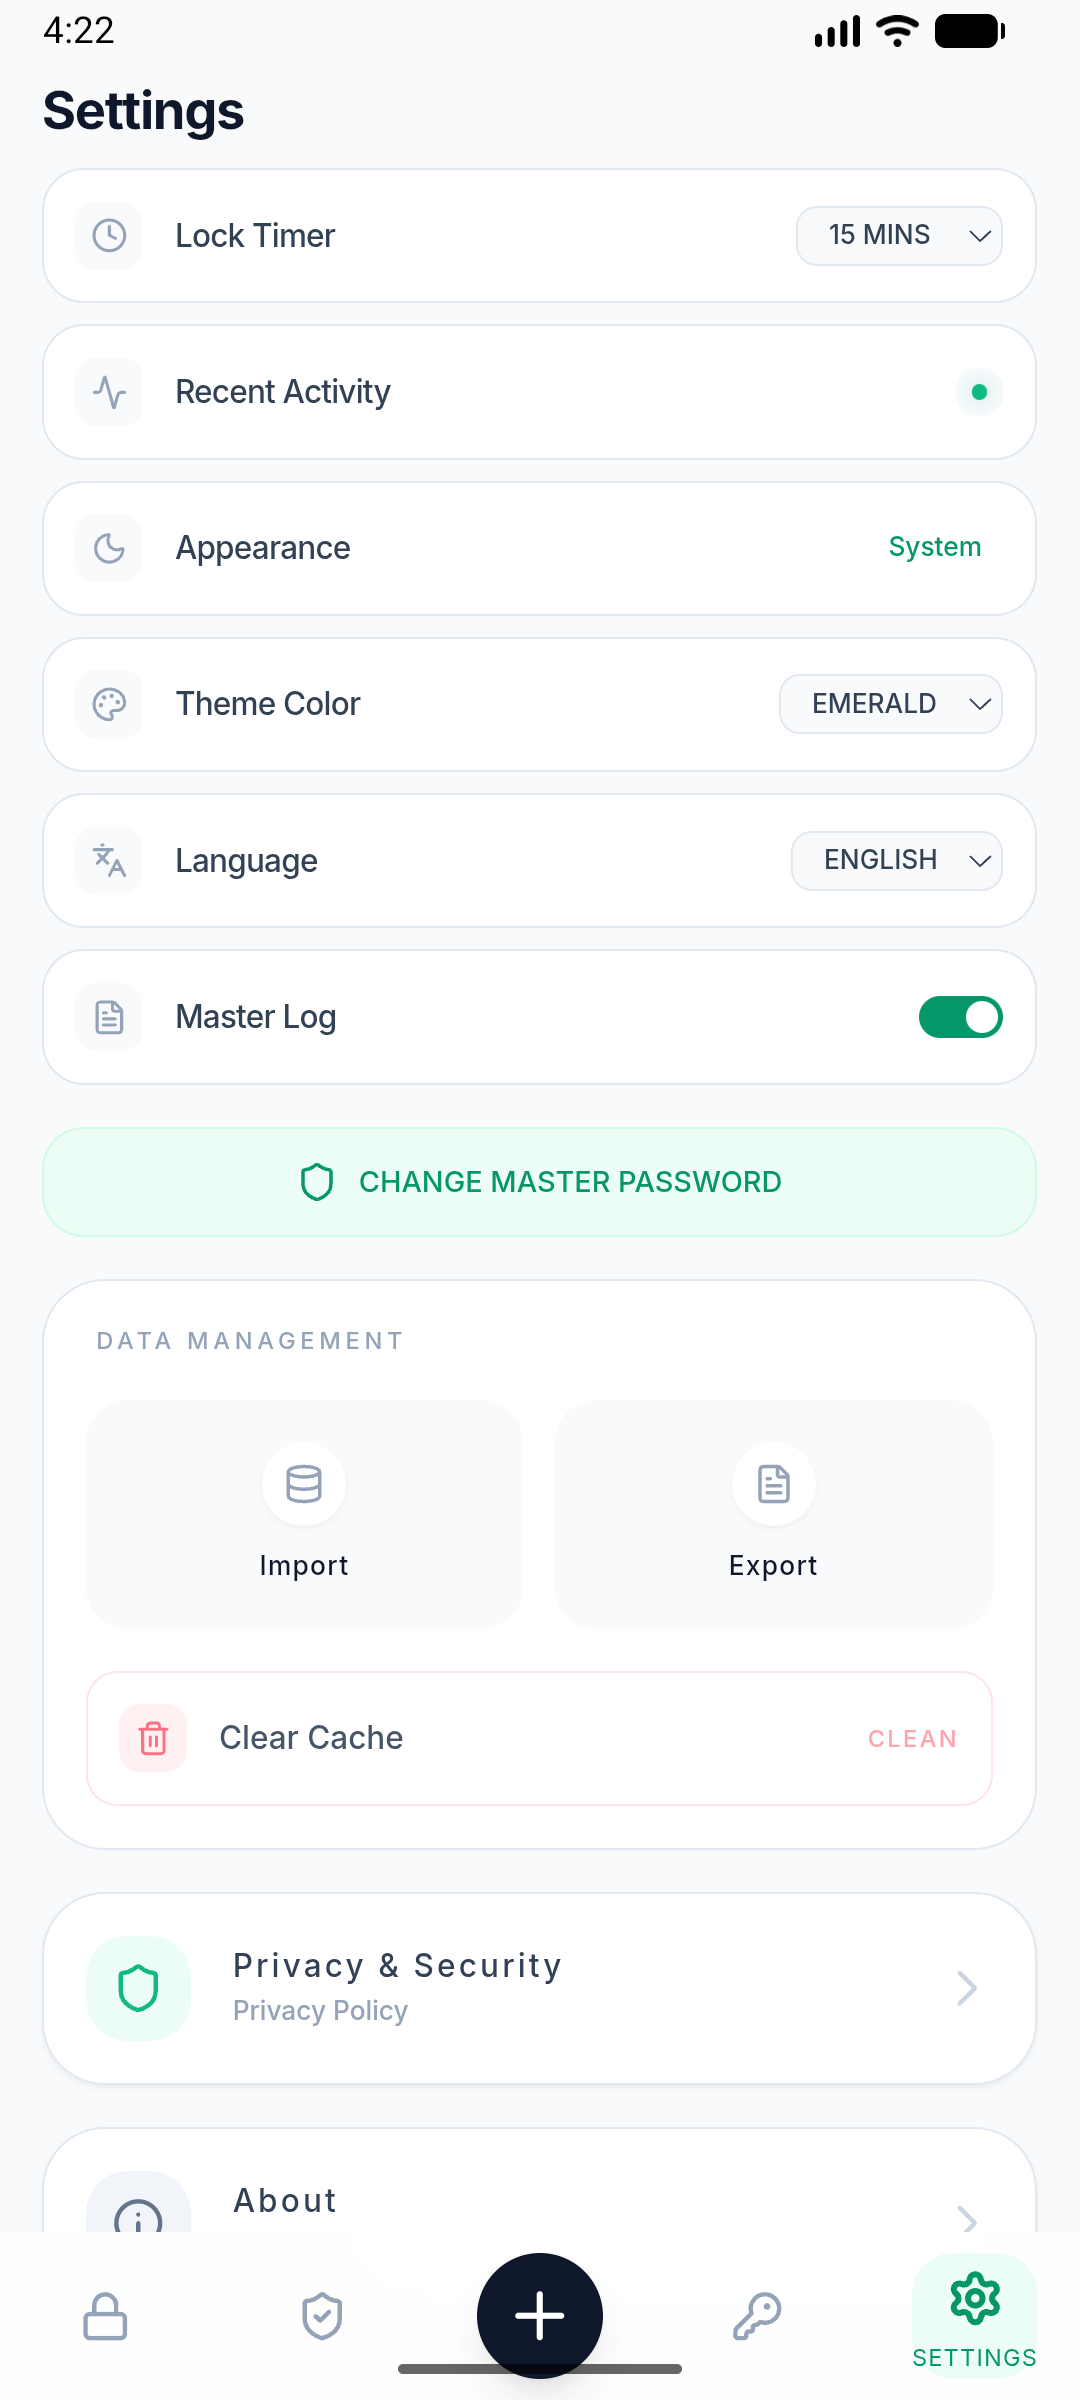
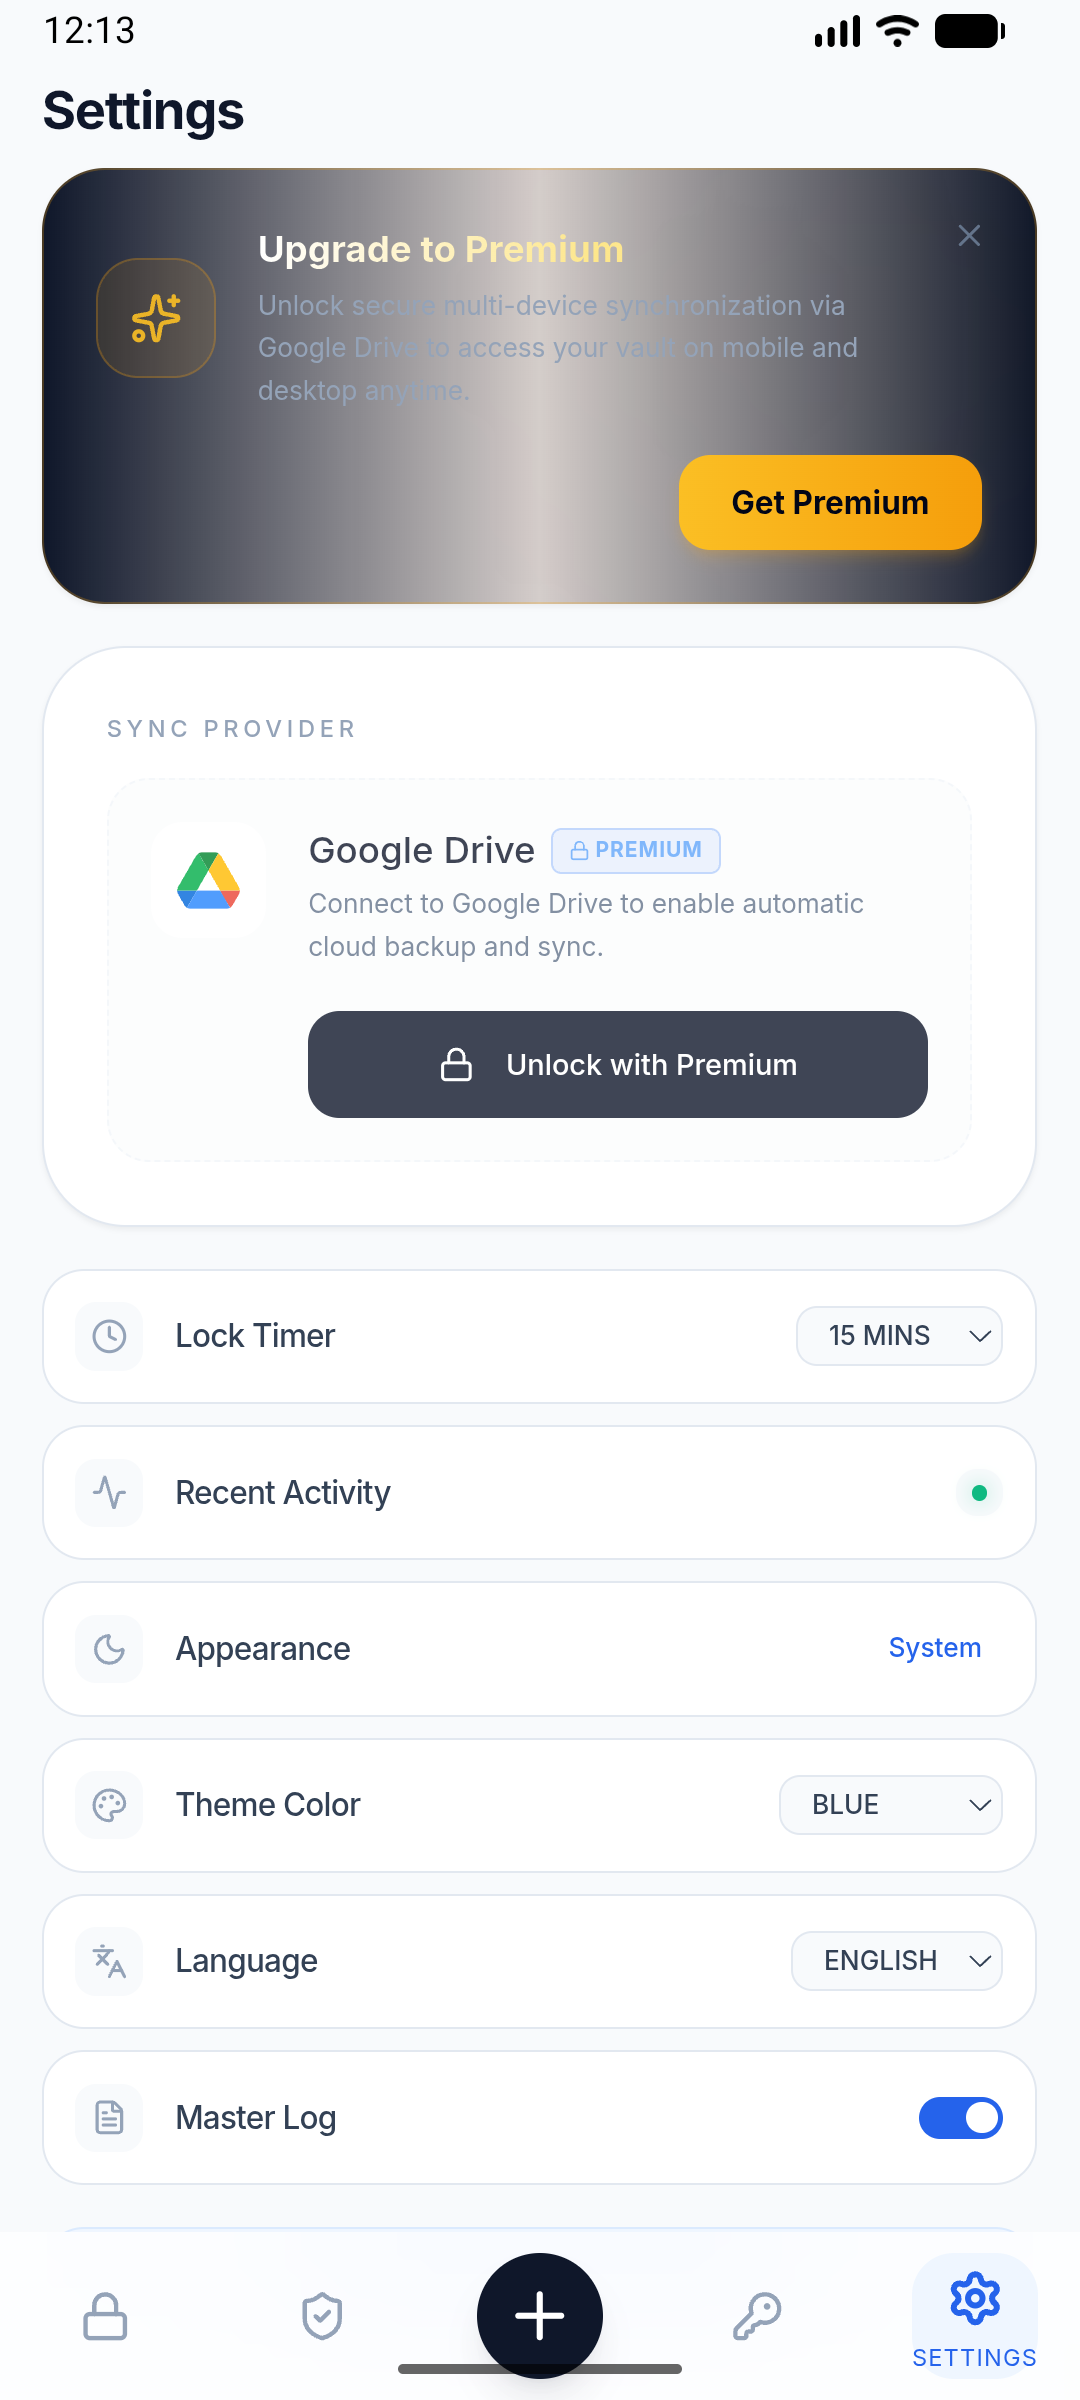
feat: integrate RevenueCat for Android in-app purchases and add Edge-to-Edge display support

diff --git a/packages/app/src/components/PaywallModal.tsx b/packages/app/src/components/PaywallModal.tsx
@@ -5,6 +5,8 @@ import { Portal } from './Portal';
 import { useTranslation } from 'react-i18next';
 import { logger } from '../utils/logger';
 import { useAlert } from '../hooks/useAlert';
+import { Capacitor } from '@capacitor/core';
+import { Purchases, PurchasesPackage } from '@revenuecat/purchases-capacitor';
 
 interface PaywallModalProps {
   isOpen: boolean;
@@ -19,15 +21,57 @@ export const PaywallModal: React.FC<PaywallModalProps> = ({ isOpen, onClose, onP
   const { t } = useTranslation();
   const { showSuccess, showError } = useAlert();
 
-  const [selectedPlan, setSelectedPlan] = useState<PlanType>('annual');
+  const [selectedPlan, setSelectedPlan] = useState<PlanType>('lifetime');
   const [paymentState, setPaymentState] = useState<PaymentState>('idle');
   const [processingStep, setProcessingStep] = useState(0);
   const [licenseKey, setLicenseKey] = useState('');
   const [licenseError, setLicenseError] = useState<string | null>(null);
 
+  const isAndroid = Capacitor.getPlatform() === 'android';
+  const [androidPackage, setAndroidPackage] = useState<PurchasesPackage | null>(null);
+  const [isLoadingAndroidProduct, setIsLoadingAndroidProduct] = useState(false);
+  const [productError, setProductError] = useState<string | null>(null);
+
+  useEffect(() => {
+    async function loadAndroidOfferings() {
+      if (!isAndroid) return;
+      setIsLoadingAndroidProduct(true);
+      try {
+        const offerings = await Purchases.getOfferings();
+        logger.info('[PREMIUM] Loaded offerings from RevenueCat:', offerings);
+        if (offerings.current !== null) {
+          const ltPkg = offerings.current.lifetime;
+          if (ltPkg) {
+            setAndroidPackage(ltPkg);
+          } else {
+            const foundLt = offerings.current.availablePackages.find(
+              (pkg) => pkg.packageType === 'LIFETIME' || pkg.identifier === '$lifetime'
+            );
+            if (foundLt) {
+              setAndroidPackage(foundLt);
+            } else if (offerings.current.availablePackages.length > 0) {
+              setAndroidPackage(offerings.current.availablePackages[0]);
+            }
+          }
+        }
+      } catch (e: any) {
+        logger.error('[PREMIUM] Failed to load offerings:', e);
+        setProductError(t('premium.paywall.load_offerings_failed', 'Error occurs, please try again later.'));
+      } finally {
+        setIsLoadingAndroidProduct(false);
+      }
+    }
+
+    if (isOpen) {
+      loadAndroidOfferings();
+    }
+  }, [isOpen]);
+
   // Steps for payment processing mock
   const paymentSteps = [
-    t('premium.paywall.connecting', 'Securing connection to App Store...'),
+    isAndroid
+      ? t('premium.paywall.connecting_google', 'Securing connection to Google Play...')
+      : t('premium.paywall.connecting', 'Securing connection to App Store...'),
     t('premium.paywall.authorizing', 'Authorizing transaction...'),
     t('premium.paywall.verifying', 'Verifying cryptographic receipt...'),
   ];
@@ -39,6 +83,8 @@ export const PaywallModal: React.FC<PaywallModalProps> = ({ isOpen, onClose, onP
   ];
 
   useEffect(() => {
+    if (isAndroid) return; // Real transactions manage state transition on Android
+
     let interval: any;
     if (paymentState === 'processing') {
       setProcessingStep(0);
@@ -100,14 +146,61 @@ export const PaywallModal: React.FC<PaywallModalProps> = ({ isOpen, onClose, onP
 
   if (!isOpen) return null;
 
-  const handlePurchase = () => {
-    logger.info(`[PREMIUM] User initiated mock purchase for plan: ${selectedPlan}`);
-    setPaymentState('processing');
+  const handlePurchase = async () => {
+    if (isAndroid) {
+      if (!androidPackage) {
+        showError(t('premium.paywall.product_not_loaded', 'Product not loaded. Please wait or retry.'));
+        return;
+      }
+      logger.info(`[PREMIUM] User initiated real purchase on Android:`, androidPackage);
+      setPaymentState('processing');
+      try {
+        const { customerInfo } = await Purchases.purchasePackage({ aPackage: androidPackage });
+        const hasPremium = customerInfo.entitlements.active['premium_access'] !== undefined;
+        if (hasPremium) {
+          setPaymentState('success');
+          localStorage.setItem('ethervault_premium', 'true');
+          onPurchaseSuccess();
+        } else {
+          throw new Error('Entitlement not active after purchase.');
+        }
+      } catch (err: any) {
+        logger.error('[PREMIUM] Real purchase failed:', err);
+        setPaymentState('idle');
+        if (!err.userCancelled) {
+          showError(err.message || t('premium.paywall.purchase_failed', 'Purchase failed. Please try again.'));
+        }
+      }
+    } else {
+      logger.info(`[PREMIUM] User initiated mock purchase for plan: ${selectedPlan}`);
+      setPaymentState('processing');
+    }
   };
 
-  const handleRestore = () => {
-    logger.info('[PREMIUM] User initiated mock restore purchases flow.');
-    setPaymentState('restoring');
+  const handleRestore = async () => {
+    if (isAndroid) {
+      logger.info('[PREMIUM] User initiated real restore purchases flow on Android.');
+      setPaymentState('restoring');
+      try {
+        const { customerInfo } = await Purchases.restorePurchases();
+        const hasPremium = customerInfo.entitlements.active['premium_access'] !== undefined;
+        if (hasPremium) {
+          setPaymentState('success');
+          localStorage.setItem('ethervault_premium', 'true');
+          onPurchaseSuccess();
+        } else {
+          setPaymentState('idle');
+          showError(t('premium.paywall.no_active_subscriptions', 'No active subscriptions found to restore.'));
+        }
+      } catch (err: any) {
+        logger.error('[PREMIUM] Real restore failed:', err);
+        setPaymentState('idle');
+        showError(err.message || t('premium.paywall.restore_failed', 'Restore failed. Please try again.'));
+      }
+    } else {
+      logger.info('[PREMIUM] User initiated mock restore purchases flow.');
+      setPaymentState('restoring');
+    }
   };
 
   const handleLicenseSubmit = (e: React.FormEvent) => {
@@ -130,30 +223,13 @@ export const PaywallModal: React.FC<PaywallModalProps> = ({ isOpen, onClose, onP
 
   const plans = [
     {
-      id: 'monthly' as PlanType,
-      title: t('premium.plan.monthly_title', 'Monthly'),
-      price: '$1.99',
-      period: t('premium.plan.monthly_period', '/ month'),
-      badge: null,
-      desc: t('premium.plan.monthly_desc', 'Flexible plan, cancel anytime.')
-    },
-    {
-      id: 'annual' as PlanType,
-      title: t('premium.plan.annual_title', 'Annual'),
-      price: '$11.99',
-      period: t('premium.plan.annual_period', '/ year'),
-      badge: t('common.recommended', 'RECOMMENDED'),
-      badgeColor: 'bg-primary-500 text-white',
-      desc: t('premium.plan.annual_desc', 'Save 50% compared to monthly.')
-    },
-    {
       id: 'lifetime' as PlanType,
-      title: t('premium.plan.lifetime_title', 'Lifetime'),
-      price: '$29.99',
+      title: t('premium.plan.lifetime_title', 'Lifetime Pro'),
+      price: isAndroid && androidPackage ? androidPackage.product.priceString : '$0.99',
       period: t('premium.plan.lifetime_period', 'one-time'),
       badge: t('premium.plan.lifetime_badge', 'BEST VALUE'),
       badgeColor: 'bg-emerald-500 text-white',
-      desc: t('premium.plan.lifetime_desc', 'Pay once, unlock forever.')
+      desc: isAndroid && androidPackage ? androidPackage.product.description : t('premium.plan.lifetime_desc', 'Pay once, unlock forever.')
     }
   ];
 
@@ -228,18 +304,17 @@ export const PaywallModal: React.FC<PaywallModalProps> = ({ isOpen, onClose, onP
               </div>
 
               {/* Plan Cards */}
-              <div className="grid grid-cols-3 gap-2.5">
+              <div className="grid grid-cols-1 max-w-xs mx-auto w-full gap-2.5">
                 {plans.map((p) => {
                   const isSelected = selectedPlan === p.id;
                   return (
                     <div
                       key={p.id}
                       onClick={() => setSelectedPlan(p.id)}
-                      className={`relative flex flex-col p-3 rounded-2xl border transition-all duration-300 cursor-pointer select-none ${
-                        isSelected
+                      className={`relative flex flex-col p-3 rounded-2xl border transition-all duration-300 cursor-pointer select-none ${isSelected
                           ? 'border-primary-500 bg-primary-950/20 ring-1 ring-primary-500/30'
                           : 'border-slate-800 bg-slate-900/50 hover:bg-slate-800/40'
-                      }`}
+                        }`}
                     >
                       {p.badge && (
                         <span className={`absolute -top-2 left-1/2 -translate-x-1/2 text-[7px] font-black tracking-wider px-1.5 py-0.5 rounded-full ${p.badgeColor}`}>
@@ -257,14 +332,27 @@ export const PaywallModal: React.FC<PaywallModalProps> = ({ isOpen, onClose, onP
                 })}
               </div>
 
+              {productError && (
+                <div className="text-[10px] text-rose-400 text-center font-medium bg-rose-500/10 border border-rose-500/20 py-2 px-3 rounded-xl mt-1">
+                  {productError}
+                </div>
+              )}
+
               {/* Actions Area */}
               <div className="space-y-3 pt-2">
                 <button
                   onClick={handlePurchase}
-                  className="w-full py-3.5 bg-gradient-to-r from-primary-600 to-indigo-600 hover:from-primary-700 hover:to-indigo-700 text-white text-xs font-bold rounded-xl transition-all active:scale-[0.98] shadow-lg shadow-primary-500/10 flex items-center justify-center gap-2"
+                  disabled={isAndroid && (isLoadingAndroidProduct || !androidPackage)}
+                  className="w-full py-3.5 bg-gradient-to-r from-primary-600 to-indigo-600 hover:from-primary-700 hover:to-indigo-700 text-white text-xs font-bold rounded-xl transition-all active:scale-[0.98] shadow-lg shadow-primary-500/10 flex items-center justify-center gap-2 disabled:opacity-50 disabled:cursor-not-allowed"
                 >
-                  <CreditCard className="w-4 h-4" />
-                  {t('premium.actions.subscribe', 'Subscribe & Unlock Now')}
+                  {isAndroid && isLoadingAndroidProduct ? (
+                    <Loader2 className="w-4 h-4 animate-spin" />
+                  ) : (
+                    <CreditCard className="w-4 h-4" />
+                  )}
+                  {isAndroid && isLoadingAndroidProduct
+                    ? t('premium.paywall.loading_product', 'Loading Product...')
+                    : t('premium.actions.subscribe', 'Buy Pro & Unlock Now')}
                 </button>
 
                 <div className={`flex items-center px-2 text-[10px] text-slate-400 ${import.meta.env.DEV ? 'justify-between' : 'justify-center'}`}>

diff --git a/packages/app/src/App.tsx b/packages/app/src/App.tsx
@@ -19,7 +19,8 @@ import { BackHandlerProvider, useBackHandler } from './hooks/useBackHandler';
 import { AlertProvider, useAlert } from './hooks/useAlert';
 import { useTranslation } from 'react-i18next';
 import { App as CapacitorApp } from '@capacitor/app';
-
+import { Capacitor } from '@capacitor/core';
+import { Purchases, LOG_LEVEL } from '@revenuecat/purchases-capacitor';
 
 // ... existing imports ...
 
@@ -51,13 +52,15 @@ const AppContent: React.FC = () => {
   const { showInfo } = useAlert();
 
   const handleUnlockPremium = () => {
-    // Intercept with a Coming Soon alert instead of opening the mock paywall
-    showInfo(
-      t('premium.coming_soon', 'In-app purchases and sync subscriptions are coming soon! The current flow is a demo, please stay tuned for upcoming version updates.'),
-      t('premium.coming_soon_title', 'Coming Soon')
-    );
-    // Original demo checkout flow (kept but temporarily disabled):
-    // setIsPaywallOpen(true);
+    if (Capacitor.getPlatform() === 'android') {
+      setIsPaywallOpen(true);
+    } else {
+      // Intercept with a Coming Soon alert instead of opening the mock paywall
+      showInfo(
+        t('premium.coming_soon', 'In-app purchases and sync subscriptions are coming soon! The current flow is a demo, please stay tuned for upcoming version updates.'),
+        t('premium.coming_soon_title', 'Coming Soon')
+      );
+    }
   };
 
   // const [isDarkMode, setIsDarkMode] = useState<boolean>(true); // Removed redundant state
@@ -142,6 +145,37 @@ const AppContent: React.FC = () => {
         if (getAuthService().checkAuth()) {
           const entries = await getVaultService().getEntries();
           setPasswords(entries);
+        }
+
+        // Initialize RevenueCat for Android
+        if (Capacitor.getPlatform() === 'android') {
+          try {
+            if (import.meta.env.DEV) {
+              await Purchases.setLogLevel({ level: LOG_LEVEL.DEBUG });
+            }
+
+            const apiKey = import.meta.env.VITE_REVENUECAT_ANDROID_API_KEY || 'goog_placeholder_api_key';
+
+            let anonId = localStorage.getItem('ethervault_anon_user_id');
+            if (!anonId) {
+              anonId = `ethervault_${crypto.randomUUID()}`;
+              localStorage.setItem('ethervault_anon_user_id', anonId);
+            }
+
+            await Purchases.configure({
+              apiKey: apiKey,
+              appUserID: anonId
+            });
+
+            // Sync active entitlement status
+            const { customerInfo } = await Purchases.getCustomerInfo();
+            const hasPremium = customerInfo.entitlements.active['premium_access'] !== undefined;
+            localStorage.setItem('ethervault_premium', hasPremium ? 'true' : 'false');
+            setSettings(prev => ({ ...prev, isPremium: hasPremium }));
+            logger.info('[PREMIUM] RevenueCat initialized on Android. Active premium status:', hasPremium);
+          } catch (rcError) {
+            logger.error('[PREMIUM] Failed to initialize RevenueCat:', rcError);
+          }
         }
       } catch (error) {
         console.error('Failed to initialize app:', error);
@@ -479,7 +513,7 @@ const AppContent: React.FC = () => {
             searchQuery={searchQuery}
             isSyncEnabled={settings.cloudProvider !== 'none'}
             isPremium={settings.isPremium}
-            onUnlockPremium={() => setIsPaywallOpen(true)}
+            onUnlockPremium={handleUnlockPremium}
           />
         );
       case 'security':

diff --git a/packages/app/ios/App/CapApp-SPM/Package.swift b/packages/app/ios/App/CapApp-SPM/Package.swift
@@ -17,7 +17,8 @@ let package = Package(
         .package(name: "CapacitorFilesystem", path: "../../../../../node_modules/@capacitor/filesystem"),
         .package(name: "CapacitorShare", path: "../../../../../node_modules/@capacitor/share"),
         .package(name: "CapawesomeCapacitorFilePicker", path: "../../../../../node_modules/@capawesome/capacitor-file-picker"),
-        .package(name: "CapgoCapacitorNativeBiometric", path: "../../../../../node_modules/@capgo/capacitor-native-biometric")
+        .package(name: "CapgoCapacitorNativeBiometric", path: "../../../../../node_modules/@capgo/capacitor-native-biometric"),
+        .package(name: "RevenuecatPurchasesCapacitor", path: "../../../../../node_modules/@revenuecat/purchases-capacitor")
     ],
     targets: [
         .target(
@@ -30,7 +31,8 @@ let package = Package(
                 .product(name: "CapacitorFilesystem", package: "CapacitorFilesystem"),
                 .product(name: "CapacitorShare", package: "CapacitorShare"),
                 .product(name: "CapawesomeCapacitorFilePicker", package: "CapawesomeCapacitorFilePicker"),
-                .product(name: "CapgoCapacitorNativeBiometric", package: "CapgoCapacitorNativeBiometric")
+                .product(name: "CapgoCapacitorNativeBiometric", package: "CapgoCapacitorNativeBiometric"),
+                .product(name: "RevenuecatPurchasesCapacitor", package: "RevenuecatPurchasesCapacitor")
             ]
         )
     ]

diff --git a/packages/app/android/app/src/main/java/com/ethervault/app/MainActivity.java b/packages/app/android/app/src/main/java/com/ethervault/app/MainActivity.java
@@ -1,5 +1,24 @@
 package com.ethervault.app;
 
+import android.os.Bundle;
+import android.view.Window;
+import androidx.activity.EdgeToEdge;
 import com.getcapacitor.BridgeActivity;
 
-public class MainActivity extends BridgeActivity {}
+public class MainActivity extends BridgeActivity {
+    @Override
+    protected void onCreate(Bundle savedInstanceState) {
+        EdgeToEdge.enable(this);
+        // Force request no title bar
+        supportRequestWindowFeature(Window.FEATURE_NO_TITLE);
+        super.onCreate(savedInstanceState);
+        
+        // Programmatically hide action bar if it was loaded
+        if (getSupportActionBar() != null) {
+            getSupportActionBar().hide();
+        }
+        if (getActionBar() != null) {
+            getActionBar().hide();
+        }
+    }
+}